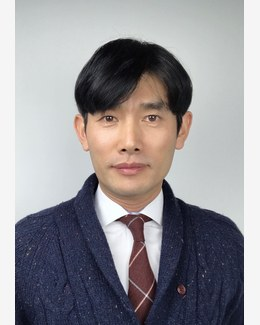
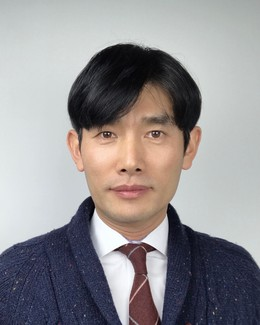
사진 여백 제거: 컨테이너 비율에 맞게 정확히 크롭
- 원본 1410x1762px로 크롭 (260:325=0.8 비율에 맞춤)
- 260x325px로 리사이즈 → 패딩 없이 틀에 꽉 참
- object-fit: cover 복원 (이미지가 정확히 맞으므로 잘림 없음)

https://claude.ai/code/session_01Myhd8nhVe1wRQVNuRV98oV

diff --git a/index.html b/index.html
@@ -394,7 +394,7 @@
   .carousel-viewport { width: 260px; height: 325px; overflow: hidden; box-shadow: 0 6px 28px rgba(0,0,0,0.13); }
   .carousel-track-inner { display: flex; transition: transform 0.45s ease; }
   .carousel-slide { min-width: 260px; height: 325px; flex-shrink: 0; }
-  .carousel-slide img { width: 100%; height: 100%; object-fit: contain; display: block; }
+  .carousel-slide img { width: 100%; height: 100%; object-fit: cover; display: block; }
   .carousel-nav-row { display: flex; align-items: center; justify-content: center; gap: 0.75rem; margin-top: 0.65rem; }
   .carousel-btn { background: var(--teal); color: white; border: none; width: 26px; height: 26px; border-radius: 50%; cursor: pointer; font-size: 1.1rem; line-height: 1; display: flex; align-items: center; justify-content: center; }
   .carousel-btn:hover { background: var(--teal-dark); }
@@ -953,9 +953,9 @@
           <div class="carousel-viewport">
             <div class="carousel-track-inner" id="carouselTrack">
               <div class="carousel-slide">
[2 lines of base64/hex data omitted]
                      alt="강사 사진"
-                     style="width:100%;height:100%;object-fit:contain;display:block;">
+                     style="width:100%;height:100%;object-fit:cover;display:block;">
               </div>
             </div>
           </div>